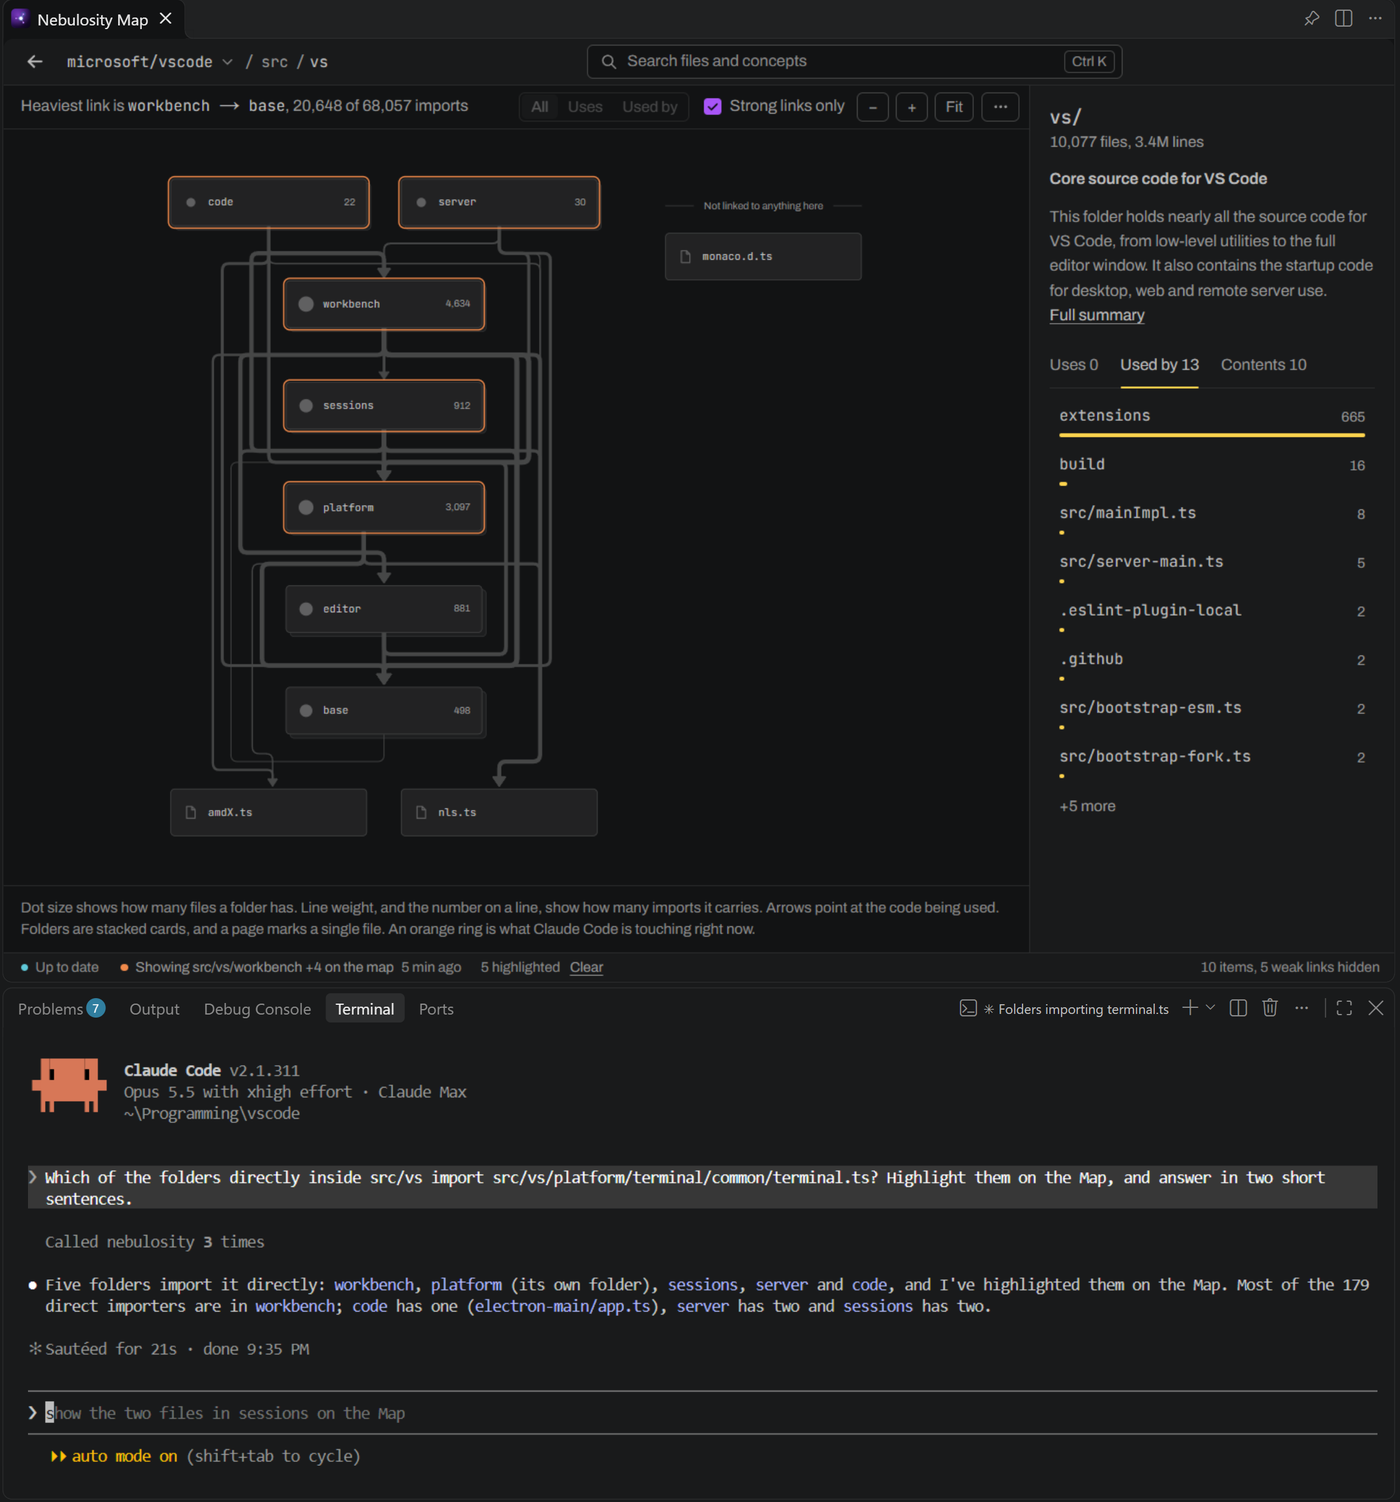
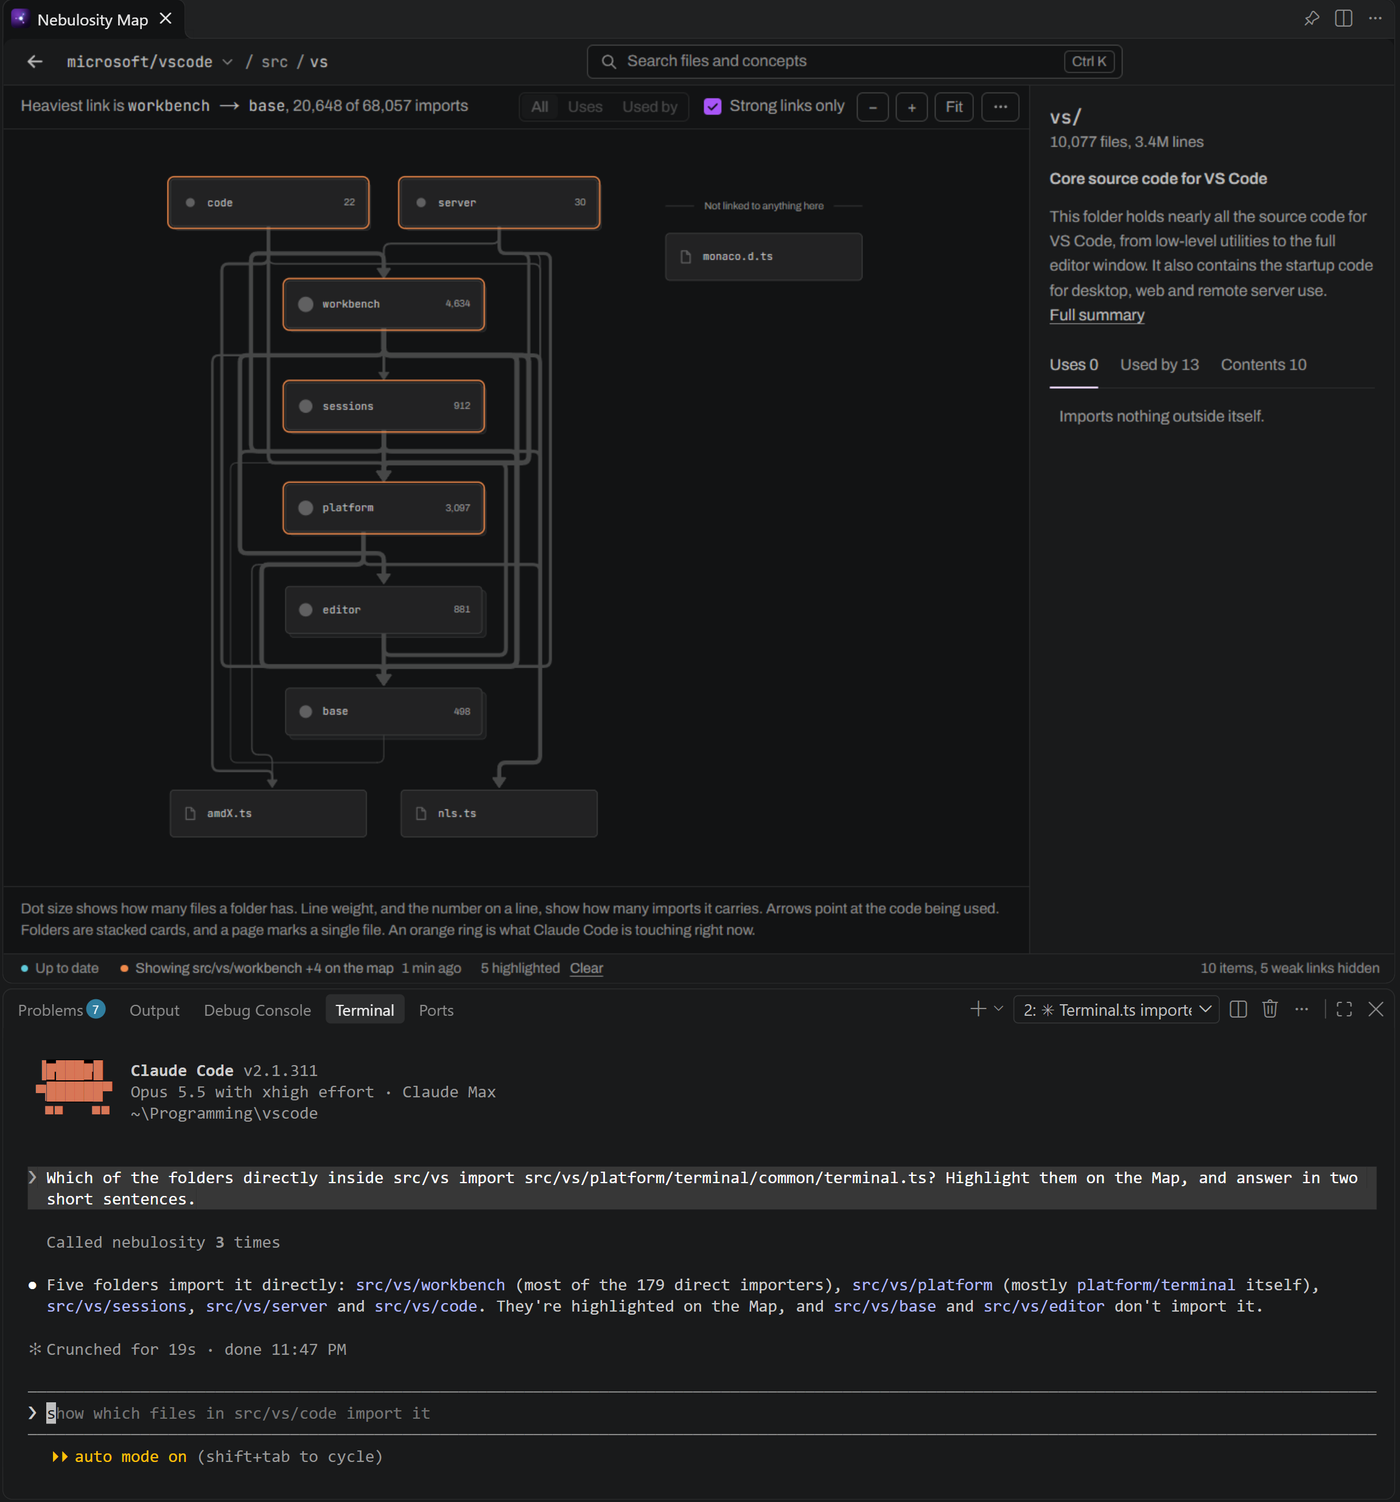
docs(readme): the screenshots in dark and light, a fuller extension shot, and the diagram in the Map's current look
- vscode-extension.png is a new scene, on the owner's ask to show more of the product. findModel.ts is open and
  selected, with lilac lines to what it imports and gold lines from the four files that import it, and Claude Code in
  the terminal below was asked which files in that folder import it. It called Nebulosity twice and the Map rings
  those four in orange. A real run, picked over the same window without the terminal.
- claude-map.png is a new real run of the same question as before (3 calls, the same five folders), now with the
  inspector on Uses, where src/vs imports nothing outside itself.
- map-vscode.png has the inspector on Uses. The browser Map only has Dark 2026, so it has no light version.
- The architecture diagram is redrawn in the Map's graphite, with Archivo and JetBrains Mono from site/fonts (it was
  set in IBM Plex, which the site no longer has), the index as the selected box and the parts that read it linked to
  it. Same layout and words. One SVG draws both themes.
- The three with both themes go in a picture element, so GitHub shows the one matching its theme.

diff --git a/README.md b/README.md
@@ -47,7 +47,10 @@ That's it. Here are some things to ask Claude Code.
 
 It'll use Nebulosity's tools when they help, and it can point things out on the Map while it explains. If something seems off, `nebulosity doctor` will tell you what's missing.
 
-![Claude Code in VS Code's terminal, asked which folders inside src/vs import terminal.ts. It answers that five do, and the Map above highlights those five (workbench, platform, sessions, server and code) while base and editor stay plain](docs/screenshots/claude-map.png)
+<picture>
+  <source media="(prefers-color-scheme: light)" srcset="docs/screenshots/claude-map-light.png">
+  <img alt="Claude Code in VS Code's terminal, asked which folders inside src/vs import terminal.ts. It answers that five do, and the Map above highlights those five (workbench, platform, sessions, server and code) while base and editor stay plain" src="docs/screenshots/claude-map.png">
+</picture>
 
 ## Features
 
@@ -65,7 +68,10 @@ And it's **free**. Everything above works without an API key, and Nebulosity its
 
 The extension shows the Map beside your code. It follows whatever file you have open, opens a file when you double-click it on the Map or press Open in VS Code, and can light up the files that import the one you're looking at.
 
-![The Nebulosity extension in VS Code. editor.main.ts is open in the editor and selected on the Map beside it, with lines to the files it imports and its summary open](docs/screenshots/vscode-extension.png)
+<picture>
+  <source media="(prefers-color-scheme: light)" srcset="docs/screenshots/vscode-extension-light.png">
+  <img alt="The Nebulosity extension in VS Code. findModel.ts is open in the editor and selected on the Map beside it, with lilac lines to the files it imports and gold lines from the four that import it. Below, Claude Code was asked which files in that folder import findModel.ts, and the Map rings those four in orange" src="docs/screenshots/vscode-extension.png">
+</picture>
 
 1. Install the `nebulosity` package and index your repo (see above).
 2. Install the **Nebulosity** extension from the [Marketplace](https://marketplace.visualstudio.com/items?itemName=andrewl746.nebulosity-vscode) or [Open VSX](https://open-vsx.org/extension/andrewl746/nebulosity-vscode), or run `code --install-extension andrewl746.nebulosity-vscode` in a terminal.
@@ -85,7 +91,10 @@ To add a key, [create one in the Claude Console](https://platform.claude.com/doc
 
 ## Architecture
 
-![Nebulosity's architecture diagram. nebulosity index reads your repo into the index, a SQLite database on your machine, and the Map keeps it current on every save. The MCP server and the Map both read the index. Claude Code asks the MCP server and gets its answer, often in one call, and each call shows up on the Map. The only thing that leaves your machine is the optional AI summaries](docs/screenshots/architecture.png)
+<picture>
+  <source media="(prefers-color-scheme: light)" srcset="docs/screenshots/architecture-light.png">
+  <img alt="Nebulosity's architecture diagram. nebulosity index reads your repo into the index, a SQLite database on your machine, and the Map keeps it current on every save. The MCP server and the Map both read the index. Claude Code asks the MCP server and gets its answer, often in one call, and each call shows up on the Map. The only thing that leaves your machine is the optional AI summaries" src="docs/screenshots/architecture.png">
+</picture>
 
 `nebulosity index` reads your repo once and writes down every file, import and folder in a SQLite database on your machine. From then on, everything works from that index. When Claude Code asks a question, the MCP server answers from it, and the Map draws from the same data. While the Map is open, a background worker watches for saves and updates the index as you go, so neither one falls behind. And every time Claude Code uses one of Nebulosity's tools, the Map lights up what it's looking at.
 
